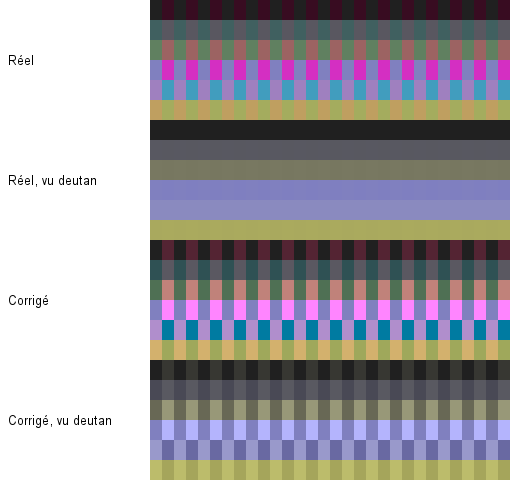
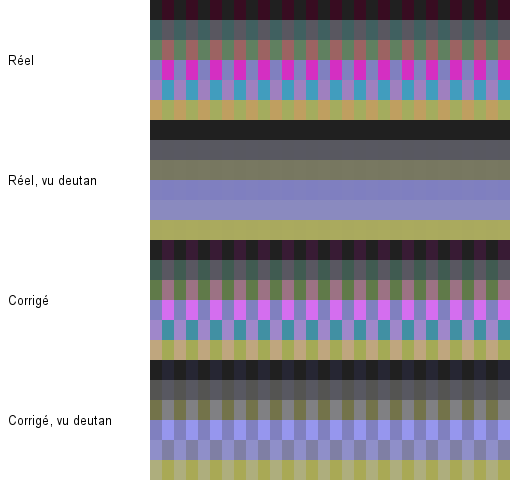
feat(color): make error redistribution the default correction
Compared by eye on the test phone, through the simulation of all three
axes, error redistribution reads better than the CIELAB remap that the
separation measure preferred: it recolours lost reds into hues the
person sees, while the remap separates mostly by lightness, which reads
as shading. Default intensity goes to 100 %, as judged. The remap stays
available, and the measure stays as a safeguard against regressions.

Changed region(s): [[0.2941, 0.5, 1.0, 0.7188], [0.2941, 0.875, 1.0, 0.9375]]

diff --git a/core/src/jvmTest/kotlin/io/github/j3ffx/nuance/core/ReportTest.kt b/core/src/jvmTest/kotlin/io/github/j3ffx/nuance/core/ReportTest.kt
@@ -49,8 +49,8 @@ class ReportTest {
     }
 
     private val strategies: List<Pair<String, CorrectionStrategy>> = listOf(
-        "redistribution d’erreur" to ErrorRedistribution,
-        "remappage CIELAB (défaut)" to LabRemap.Default
+        "redistribution d’erreur (défaut)" to ErrorRedistribution,
+        "remappage CIELAB" to LabRemap.Default
     )
 
     private fun corrections(md: StringBuilder) {
@@ -96,7 +96,7 @@ class ReportTest {
         md.appendLine()
         md.appendLine(
             "Chaque stratégie est réglée pour modifier l’image d’un ΔE moyen de 8, puis on compare ce qu’elle " +
-                "sépare. Les variantes du remappage (gains chroma / clarté) montrent d’où vient le choix par défaut."
+                "sépare. Les variantes du remappage (gains chroma / clarté) montrent d’où viennent ses gains."
         )
         md.appendLine()
         md.appendLine("| Axe | Sévérité | Stratégie | Distinctes | Avant → après | Teinte peau |")
@@ -188,13 +188,13 @@ class ReportTest {
         md.appendLine("## Images de comparaison")
         md.appendLine()
         md.appendLine(
-            "De haut en bas : réel, réel vu avec le profil, corrigé (stratégie par défaut, intensité 70 %), " +
+            "De haut en bas : réel, réel vu avec le profil, corrigé (stratégie par défaut, intensité 100 %), " +
                 "corrigé vu avec le profil. Sévérité 100 %."
         )
         md.appendLine()
         for (axis in Axis.entries) {
             val name = axis.name.lowercase()
-            val views = ColorFunction.comparer(Settings(CvdProfile(axis, 1.0), intensity = 0.7)).map(ColorFunction::rgb)
+            val views = ColorFunction.comparer(Settings(CvdProfile(axis, 1.0))).map(ColorFunction::rgb)
             val labels = listOf("Réel", "Réel, vu $name", "Corrigé", "Corrigé, vu $name")
             val charts = listOf(
                 "rayures" to SyntheticCharts.confusionStripes(axis),

diff --git a/core/src/commonMain/kotlin/io/github/j3ffx/nuance/core/correction/CorrectionStrategy.kt b/core/src/commonMain/kotlin/io/github/j3ffx/nuance/core/correction/CorrectionStrategy.kt
@@ -25,8 +25,11 @@ interface CorrectionStrategy {
 
         fun byId(id: String): CorrectionStrategy = all.firstOrNull { it.id == id } ?: Default
 
-        /** Chosen on measurements (docs/ALGORITHMS.md, "Corrections"). */
-        val Default: CorrectionStrategy get() = LabRemap.Default
+        /**
+         * Chosen by eye on the test phone, through the simulation of all three axes, over the
+         * CIELAB remap the separation measure preferred (docs/ALGORITHMS.md, "Corrections").
+         */
+        val Default: CorrectionStrategy get() = ErrorRedistribution
     }
 }
 
@@ -87,10 +90,9 @@ class LabRemap(
     }
     companion object {
         /**
-         * Chosen on measurements (docs/ALGORITHMS.md): at equal image change, putting most of the
-         * lost difference into lightness, which every axis still perceives, rescues the most
-         * confused pairs and shifts skin hues the least. The scale makes 100 % a strong but
-         * bearable correction (mean ΔE2000 change about 12).
+         * The best gains by the separation measure (docs/ALGORITHMS.md): at equal image change,
+         * putting most of the lost difference into lightness rescues the most confused pairs and
+         * shifts skin hues the least. The scale makes 100 % a strong but bearable correction.
          */
         val Default = LabRemap(chromaGain = 0.2, lightnessGain = 0.65)
     }

diff --git a/core/src/commonMain/kotlin/io/github/j3ffx/nuance/core/modes/Modes.kt b/core/src/commonMain/kotlin/io/github/j3ffx/nuance/core/modes/Modes.kt
@@ -34,7 +34,7 @@ enum class HuePreset(val swatch: Rgb) {
 data class Settings(
     val profile: CvdProfile,
     /** Correction strength, 0 (original) to 1. */
-    val intensity: Double = 0.7,
+    val intensity: Double = 1.0,
     val strategyId: String = CorrectionStrategy.Default.id,
     /** Extra contrast and saturation, 0 (none) to 1 (strong); applied after the correction. */
     val contrast: Double = 0.0,

diff --git a/docs/report/measurements.md b/docs/report/measurements.md
@@ -9,70 +9,70 @@ Paires de couleurs que le profil confond (ΔE < 5 à travers sa simulation, ΔE 
 
 | Axe | Sévérité | Stratégie | Paires | Avant → après | Distinctes | Coût | Peau | Teinte peau | Gris |
 |---|---:|---|---:|---:|---:|---:|---:|---:|---:|
-| Protan | 20 % | redistribution d’erreur | 0 | — → — | — | 4.0 | 2.8 | 7° | 0.00 |
-| Protan | 20 % | remappage CIELAB (défaut) | 0 | — → — | — | 5.4 | 2.7 | 7° | 0.00 |
-| Protan | 40 % | redistribution d’erreur | 91 | 4.5 → 5.6 | 76 % | 6.6 | 4.7 | 11° | 0.00 |
-| Protan | 40 % | remappage CIELAB (défaut) | 91 | 4.5 → 8.2 | 97 % | 9.2 | 4.6 | 15° | 0.00 |
-| Protan | 60 % | redistribution d’erreur | 279 | 3.4 → 6.3 | 82 % | 8.6 | 6.3 | 14° | 0.00 |
-| Protan | 60 % | remappage CIELAB (défaut) | 279 | 3.4 → 9.2 | 96 % | 12.0 | 6.1 | 22° | 0.00 |
-| Protan | 80 % | redistribution d’erreur | 615 | 2.7 → 9.9 | 94 % | 10.2 | 7.6 | 15° | 0.00 |
-| Protan | 80 % | remappage CIELAB (défaut) | 615 | 2.7 → 13.5 | 96 % | 14.2 | 7.4 | 29° | 0.00 |
-| Protan | 100 % | redistribution d’erreur | 818 | 0.0 → 13.5 | 98 % | 11.5 | 9.6 | 14° | 0.00 |
-| Protan | 100 % | remappage CIELAB (défaut) | 818 | 0.0 → 16.0 | 98 % | 13.1 | 10.0 | 43° | 0.00 |
-| Deutan | 20 % | redistribution d’erreur | 0 | — → — | — | 3.8 | 2.6 | 12° | 0.00 |
-| Deutan | 20 % | remappage CIELAB (défaut) | 0 | — → — | — | 5.9 | 3.0 | 8° | 0.00 |
-| Deutan | 40 % | redistribution d’erreur | 99 | 4.5 → 5.0 | 51 % | 5.8 | 4.2 | 20° | 0.00 |
-| Deutan | 40 % | remappage CIELAB (défaut) | 99 | 4.5 → 7.1 | 92 % | 9.8 | 5.1 | 17° | 0.00 |
-| Deutan | 60 % | redistribution d’erreur | 317 | 3.4 → 5.2 | 44 % | 7.2 | 5.3 | 26° | 0.00 |
-| Deutan | 60 % | remappage CIELAB (défaut) | 317 | 3.4 → 8.9 | 89 % | 12.6 | 6.7 | 25° | 0.00 |
-| Deutan | 80 % | redistribution d’erreur | 691 | 2.6 → 7.5 | 65 % | 8.1 | 6.2 | 30° | 0.00 |
-| Deutan | 80 % | remappage CIELAB (défaut) | 691 | 2.6 → 13.9 | 94 % | 14.7 | 7.9 | 32° | 0.00 |
-| Deutan | 100 % | redistribution d’erreur | 863 | 0.0 → 11.1 | 79 % | 7.6 | 8.3 | 39° | 0.00 |
-| Deutan | 100 % | remappage CIELAB (défaut) | 863 | 0.0 → 18.2 | 97 % | 14.6 | 10.9 | 49° | 0.00 |
-| Tritan | 20 % | redistribution d’erreur | 0 | — → — | — | 2.9 | 1.0 | 2° | 0.00 |
-| Tritan | 20 % | remappage CIELAB (défaut) | 0 | — → — | — | 4.0 | 1.6 | 2° | 0.00 |
-| Tritan | 40 % | redistribution d’erreur | 8 | 4.8 → 4.4 | 0 % | 5.6 | 2.1 | 5° | 0.00 |
-| Tritan | 40 % | remappage CIELAB (défaut) | 8 | 4.8 → 5.6 | 88 % | 7.1 | 3.0 | 4° | 0.00 |
-| Tritan | 60 % | redistribution d’erreur | 128 | 4.2 → 4.6 | 35 % | 8.3 | 3.2 | 8° | 0.00 |
-| Tritan | 60 % | remappage CIELAB (défaut) | 128 | 4.2 → 5.9 | 81 % | 9.8 | 4.4 | 6° | 0.00 |
-| Tritan | 80 % | redistribution d’erreur | 310 | 2.9 → 5.7 | 60 % | 10.9 | 4.4 | 11° | 0.00 |
-| Tritan | 80 % | remappage CIELAB (défaut) | 310 | 2.9 → 7.4 | 89 % | 12.3 | 5.7 | 11° | 0.00 |
-| Tritan | 100 % | redistribution d’erreur | 361 | 0.0 → 7.3 | 73 % | 13.5 | 5.6 | 15° | 0.00 |
-| Tritan | 100 % | remappage CIELAB (défaut) | 361 | 0.0 → 9.1 | 89 % | 14.8 | 6.9 | 16° | 0.00 |
+| Protan | 20 % | redistribution d’erreur (défaut) | 0 | — → — | — | 4.0 | 2.8 | 7° | 0.00 |
+| Protan | 20 % | remappage CIELAB | 0 | — → — | — | 5.4 | 2.7 | 7° | 0.00 |
+| Protan | 40 % | redistribution d’erreur (défaut) | 91 | 4.5 → 5.6 | 76 % | 6.6 | 4.7 | 11° | 0.00 |
+| Protan | 40 % | remappage CIELAB | 91 | 4.5 → 8.2 | 97 % | 9.2 | 4.6 | 15° | 0.00 |
+| Protan | 60 % | redistribution d’erreur (défaut) | 279 | 3.4 → 6.3 | 82 % | 8.6 | 6.3 | 14° | 0.00 |
+| Protan | 60 % | remappage CIELAB | 279 | 3.4 → 9.2 | 96 % | 12.0 | 6.1 | 22° | 0.00 |
+| Protan | 80 % | redistribution d’erreur (défaut) | 615 | 2.7 → 9.9 | 94 % | 10.2 | 7.6 | 15° | 0.00 |
+| Protan | 80 % | remappage CIELAB | 615 | 2.7 → 13.5 | 96 % | 14.2 | 7.4 | 29° | 0.00 |
+| Protan | 100 % | redistribution d’erreur (défaut) | 818 | 0.0 → 13.5 | 98 % | 11.5 | 9.6 | 14° | 0.00 |
+| Protan | 100 % | remappage CIELAB | 818 | 0.0 → 16.0 | 98 % | 13.1 | 10.0 | 43° | 0.00 |
+| Deutan | 20 % | redistribution d’erreur (défaut) | 0 | — → — | — | 3.8 | 2.6 | 12° | 0.00 |
+| Deutan | 20 % | remappage CIELAB | 0 | — → — | — | 5.9 | 3.0 | 8° | 0.00 |
+| Deutan | 40 % | redistribution d’erreur (défaut) | 99 | 4.5 → 5.0 | 51 % | 5.8 | 4.2 | 20° | 0.00 |
+| Deutan | 40 % | remappage CIELAB | 99 | 4.5 → 7.1 | 92 % | 9.8 | 5.1 | 17° | 0.00 |
+| Deutan | 60 % | redistribution d’erreur (défaut) | 317 | 3.4 → 5.2 | 44 % | 7.2 | 5.3 | 26° | 0.00 |
+| Deutan | 60 % | remappage CIELAB | 317 | 3.4 → 8.9 | 89 % | 12.6 | 6.7 | 25° | 0.00 |
+| Deutan | 80 % | redistribution d’erreur (défaut) | 691 | 2.6 → 7.5 | 65 % | 8.1 | 6.2 | 30° | 0.00 |
+| Deutan | 80 % | remappage CIELAB | 691 | 2.6 → 13.9 | 94 % | 14.7 | 7.9 | 32° | 0.00 |
+| Deutan | 100 % | redistribution d’erreur (défaut) | 863 | 0.0 → 11.1 | 79 % | 7.6 | 8.3 | 39° | 0.00 |
+| Deutan | 100 % | remappage CIELAB | 863 | 0.0 → 18.2 | 97 % | 14.6 | 10.9 | 49° | 0.00 |
+| Tritan | 20 % | redistribution d’erreur (défaut) | 0 | — → — | — | 2.9 | 1.0 | 2° | 0.00 |
+| Tritan | 20 % | remappage CIELAB | 0 | — → — | — | 4.0 | 1.6 | 2° | 0.00 |
+| Tritan | 40 % | redistribution d’erreur (défaut) | 8 | 4.8 → 4.4 | 0 % | 5.6 | 2.1 | 5° | 0.00 |
+| Tritan | 40 % | remappage CIELAB | 8 | 4.8 → 5.6 | 88 % | 7.1 | 3.0 | 4° | 0.00 |
+| Tritan | 60 % | redistribution d’erreur (défaut) | 128 | 4.2 → 4.6 | 35 % | 8.3 | 3.2 | 8° | 0.00 |
+| Tritan | 60 % | remappage CIELAB | 128 | 4.2 → 5.9 | 81 % | 9.8 | 4.4 | 6° | 0.00 |
+| Tritan | 80 % | redistribution d’erreur (défaut) | 310 | 2.9 → 5.7 | 60 % | 10.9 | 4.4 | 11° | 0.00 |
+| Tritan | 80 % | remappage CIELAB | 310 | 2.9 → 7.4 | 89 % | 12.3 | 5.7 | 11° | 0.00 |
+| Tritan | 100 % | redistribution d’erreur (défaut) | 361 | 0.0 → 7.3 | 73 % | 13.5 | 5.6 | 15° | 0.00 |
+| Tritan | 100 % | remappage CIELAB | 361 | 0.0 → 9.1 | 89 % | 14.8 | 6.9 | 16° | 0.00 |
 
 ## Comparaison à coût égal
 
-Chaque stratégie est réglée pour modifier l’image d’un ΔE moyen de 8, puis on compare ce qu’elle sépare. Les variantes du remappage (gains chroma / clarté) montrent d’où vient le choix par défaut.
+Chaque stratégie est réglée pour modifier l’image d’un ΔE moyen de 8, puis on compare ce qu’elle sépare. Les variantes du remappage (gains chroma / clarté) montrent d’où viennent ses gains.
 
 | Axe | Sévérité | Stratégie | Distinctes | Avant → après | Teinte peau |
 |---|---:|---|---:|---:|---:|
-| Protan | 60 % | redistribution d’erreur | 76 % | 3.4 → 6.0 | 13° |
-| Protan | 60 % | remappage CIELAB (défaut) | 90 % | 3.4 → 6.8 | 12° |
+| Protan | 60 % | redistribution d’erreur (défaut) | 76 % | 3.4 → 6.0 | 13° |
+| Protan | 60 % | remappage CIELAB | 90 % | 3.4 → 6.8 | 12° |
 | Protan | 60 % | CIELAB 1 / 0 | 84 % | 3.4 → 7.4 | 18° |
 | Protan | 60 % | CIELAB 0,6 / 0,6 | 90 % | 3.4 → 6.9 | 19° |
 | Protan | 60 % | CIELAB 0 / 1 | 88 % | 3.4 → 6.7 | 8° |
-| Protan | 100 % | redistribution d’erreur | 80 % | 0.0 → 9.7 | 10° |
-| Protan | 100 % | remappage CIELAB (défaut) | 87 % | 0.0 → 9.9 | 20° |
+| Protan | 100 % | redistribution d’erreur (défaut) | 80 % | 0.0 → 9.7 | 10° |
+| Protan | 100 % | remappage CIELAB | 87 % | 0.0 → 9.9 | 20° |
 | Protan | 100 % | CIELAB 1 / 0 | 76 % | 0.0 → 10.6 | 24° |
 | Protan | 100 % | CIELAB 0,6 / 0,6 | 85 % | 0.0 → 9.9 | 27° |
 | Protan | 100 % | CIELAB 0 / 1 | 88 % | 0.0 → 10.0 | 13° |
-| Deutan | 60 % | redistribution d’erreur | 45 % | 3.4 → 5.5 | 29° |
-| Deutan | 60 % | remappage CIELAB (défaut) | 77 % | 3.4 → 6.2 | 13° |
+| Deutan | 60 % | redistribution d’erreur (défaut) | 45 % | 3.4 → 5.5 | 29° |
+| Deutan | 60 % | remappage CIELAB | 77 % | 3.4 → 6.2 | 13° |
 | Deutan | 60 % | CIELAB 1 / 0 | 74 % | 3.4 → 7.0 | 19° |
 | Deutan | 60 % | CIELAB 0,6 / 0,6 | 77 % | 3.4 → 6.2 | 19° |
 | Deutan | 60 % | CIELAB 0 / 1 | 77 % | 3.4 → 6.2 | 8° |
-| Deutan | 100 % | redistribution d’erreur | 80 % | 0.0 → 11.8 | 41° |
-| Deutan | 100 % | remappage CIELAB (défaut) | 86 % | 0.0 → 10.3 | 19° |
+| Deutan | 100 % | redistribution d’erreur (défaut) | 80 % | 0.0 → 11.8 | 41° |
+| Deutan | 100 % | remappage CIELAB | 86 % | 0.0 → 10.3 | 19° |
 | Deutan | 100 % | CIELAB 1 / 0 | 77 % | 0.0 → 12.5 | 23° |
 | Deutan | 100 % | CIELAB 0,6 / 0,6 | 84 % | 0.0 → 10.5 | 26° |
 | Deutan | 100 % | CIELAB 0 / 1 | 87 % | 0.0 → 10.5 | 12° |
-| Tritan | 60 % | redistribution d’erreur | 33 % | 4.2 → 4.6 | 8° |
-| Tritan | 60 % | remappage CIELAB (défaut) | 65 % | 4.2 → 5.4 | 4° |
+| Tritan | 60 % | redistribution d’erreur (défaut) | 33 % | 4.2 → 4.6 | 8° |
+| Tritan | 60 % | remappage CIELAB | 65 % | 4.2 → 5.4 | 4° |
 | Tritan | 60 % | CIELAB 1 / 0 | 28 % | 4.2 → 4.6 | 16° |
 | Tritan | 60 % | CIELAB 0,6 / 0,6 | 45 % | 4.2 → 5.1 | 10° |
 | Tritan | 60 % | CIELAB 0 / 1 | 74 % | 4.2 → 5.5 | 5° |
-| Tritan | 100 % | redistribution d’erreur | 33 % | 0.0 → 4.6 | 8° |
-| Tritan | 100 % | remappage CIELAB (défaut) | 38 % | 0.0 → 4.9 | 4° |
+| Tritan | 100 % | redistribution d’erreur (défaut) | 33 % | 0.0 → 4.6 | 8° |
+| Tritan | 100 % | remappage CIELAB | 38 % | 0.0 → 4.9 | 4° |
 | Tritan | 100 % | CIELAB 1 / 0 | 38 % | 0.0 → 5.2 | 16° |
 | Tritan | 100 % | CIELAB 0,6 / 0,6 | 40 % | 0.0 → 5.1 | 9° |
 | Tritan | 100 % | CIELAB 0 / 1 | 35 % | 0.0 → 4.8 | 5° |
@@ -85,21 +85,21 @@ Chaque stratégie est réglée pour modifier l’image d’un ΔE moyen de 8, pu
 |---|---:|---:|---:|---:|---:|
 | simulation deutan 100 % | 0.08 / 0.31 / 0.51 | 0.08 / 0.28 / 0.47 | 0.08 / 0.28 / 0.40 | 0.07 / 0.26 / 0.56 | 0.08 / 0.30 / 0.46 |
 | simulation tritan 100 % | 0.17 / 1.14 / 1.82 | 0.13 / 0.76 / 1.35 | 0.12 / 0.54 / 1.17 | 0.11 / 0.40 / 0.89 | 0.10 / 0.37 / 0.76 |
-| correction deutan 100 % + contraste | 0.22 / 1.66 / 3.49 | 0.13 / 0.96 / 2.67 | 0.09 / 0.66 / 1.56 | 0.07 / 0.39 / 1.01 | 0.06 / 0.30 / 0.92 |
-| correction tritan 100 % | 0.23 / 1.93 / 3.46 | 0.14 / 1.28 / 3.57 | 0.10 / 0.78 / 1.59 | 0.08 / 0.47 / 1.21 | 0.07 / 0.33 / 0.96 |
+| correction deutan 100 % + contraste | 0.20 / 1.12 / 2.35 | 0.12 / 0.70 / 1.71 | 0.09 / 0.48 / 1.27 | 0.08 / 0.36 / 0.81 | 0.07 / 0.28 / 0.72 |
+| correction tritan 100 % | 0.18 / 1.11 / 2.51 | 0.12 / 0.59 / 1.94 | 0.12 / 0.48 / 1.42 | 0.09 / 0.33 / 0.78 | 0.10 / 0.30 / 0.71 |
 | isoler le rouge | 0.49 / 8.88 / 13.04 | 0.29 / 5.95 / 11.32 | 0.20 / 3.98 / 7.98 | 0.12 / 2.21 / 5.28 | 0.09 / 1.27 / 3.80 |
 
 ## Temps de cuisson
 
 JVM du PC de développement, à titre indicatif (correction + contraste, médiane de 5) :
 
-- 17³ : 1.1 ms
-- 33³ : 7.5 ms
-- 49³ : 26.2 ms
+- 17³ : 0.9 ms
+- 33³ : 6.3 ms
+- 49³ : 23.1 ms
 
 ## Images de comparaison
 
-De haut en bas : réel, réel vu avec le profil, corrigé (stratégie par défaut, intensité 70 %), corrigé vu avec le profil. Sévérité 100 %.
+De haut en bas : réel, réel vu avec le profil, corrigé (stratégie par défaut, intensité 100 %), corrigé vu avec le profil. Sévérité 100 %.
 
 ![Protan, rayures](images/protan-rayures.png)
 

diff --git a/docs/ALGORITHMS.md b/docs/ALGORITHMS.md
@@ -119,13 +119,13 @@ L'interface `CorrectionStrategy` (`core/.../correction/`) en propose deux. L'int
 (l'image d'origine) à 1. Aucune ne bouge les gris ni le blanc : une couleur neutre ne perd rien
 dans la simulation, il n'y a donc rien à déplacer (vérifié par les tests, ΔE < 0,5).
 
-- **Redistribution de l'erreur**, d'après Fidaner, Lin et Ozguven (2005), _Analysis of Color
+- **Redistribution de l'erreur** (stratégie par défaut, intensité 100 %), d'après Fidaner, Lin et Ozguven (2005), _Analysis of Color
   Blindness_, Stanford EE368. On simule, on calcule ce que la personne perd (original − simulé), et
   on l'ajoute aux canaux qu'elle perçoit encore. Pour protan et deutan, la matrice de l'article
   (le rouge perdu va vers le vert et le bleu) ; pour tritan, l'adaptation habituelle (le bleu perdu
   va vers le rouge et le vert), que l'article ne traite pas. Calculée en RGB linéaire, alors que
   l'original travaillait sur des valeurs encodées.
-- **Remappage CIELAB** (stratégie par défaut). Ce que la simulation retire sur l'axe opposé perdu
+- **Remappage CIELAB** (dans le panneau Avancé). Ce que la simulation retire sur l'axe opposé perdu
   (rouge-vert, a\*, pour protan et deutan ; bleu-jaune, b\*, pour tritan) est réécrit sur les axes
   que la personne perçoit encore : surtout la clarté, un peu l'autre axe opposé.
 
@@ -151,13 +151,26 @@ d'un ΔE moyen de 8, et l'on compte la part des paires confondues qui deviennent
 | Tritan 60 %  |                    33 % |             65 % |
 | Tritan 100 % |                    33 % |             38 % |
 
-Le remappage l'emporte partout ; il est donc la stratégie par défaut, et la redistribution d'erreur
-reste dans le panneau Avancé.
+Selon ce critère, le remappage l'emporte partout.
 
 Les variantes du remappage, mesurées de la même façon, montrent que mettre surtout la différence
 perdue dans la **clarté**, que tous les axes perçoivent, sépare le mieux et décale le moins la
 teinte des tons chair. D'où les gains retenus : 0,65 sur la clarté, 0,2 sur l'autre axe opposé,
 calibrés pour qu'une intensité de 100 % reste supportable (ΔE moyen de l'ordre de 13 à 15).
+
+### Le choix final : à l'œil, à travers la simulation
+
+Le critère dit si deux couleurs deviennent _différentes_, pas si l'image reste lisible. Sur le
+téléphone, en comparant pour les trois axes l'image corrigée **vue à travers la simulation** (le
+seul moyen pour une personne à la vision typique de juger), la redistribution d'erreur a été
+préférée partout. Explication probable : elle **recolore** (les rouges perdus partent vers des
+teintes que la personne perçoit), et garde des couleurs franches et cohérentes d'un objet à
+l'autre ; le remappage sépare surtout par la clarté, ce qui se lit comme des ombres ou des reflets
+plutôt que comme des couleurs. Elle est donc la stratégie par défaut, à intensité 100 %, et le
+remappage reste dans le panneau Avancé.
+
+Ce jugement reste celui d'un œil typique regardant une simulation : le test avec une personne
+daltonienne tranchera.
 
 ### À intensité 100 % (extrait)
 
@@ -171,9 +184,9 @@ calibrés pour qu'une intensité de 100 % reste supportable (ΔE moyen de l'ordr
 ### Limites connues
 
 - **Tons chair** : à intensité et sévérité maximales, certains tons chair clairs changent nettement
-  de teinte (jusqu'à 49°, le plus souvent bien moins). D'où une intensité par défaut de 70 %. À 70 %
-  et 60 % de sévérité, le décalage reste sous 20° et les tons chair bougent moins que le reste de
-  l'image (testé).
+  de teinte (jusqu'à 39° avec la redistribution, 49° avec le remappage, le plus souvent bien moins).
+  À 70 % et 60 % de sévérité, le décalage reste sous 20° et les tons chair bougent moins que le reste
+  de l'image (testé).
 - **Tritan** : ses lignes de confusion sont courtes dans CIELAB ; à coût égal, la correction en
   sauve moins (environ 40 % des paires à 100 %). Dans les couleurs très claires, le gain de clarté
   bute sur le blanc.
